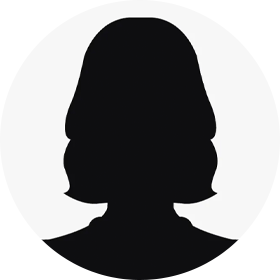
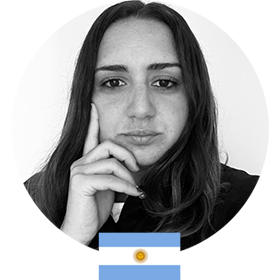
Agregamos a Jessi

diff --git a/public/index.html b/public/index.html
@@ -1,4 +1,4 @@
-<html lang="es"><head><meta charset="UTF-8"/><meta http-equiv="X-UA-Compatible" content="IE=edge"/><meta name="viewport" content="width=device-width, initial-scale=1.0"/><meta http-equiv="cache-control" content="no-cache"/><meta http-equiv="expires" content="0"/><meta http-equiv="pragma" content="no-cache"/><link rel="stylesheet" href="css/styles-min.css?t=1655481165754"/><script src="https://kit.fontawesome.com/1bd7ea1dfd.js" crossorigin="anonymous"></script><meta property="og:title" content="Diplomado Internacional de Marketing Digital"/><meta property="og:type" content="website"/><meta property="og:description" content="El más completo y accesible Diplomado Internacional de Marketing Digital en el mercado online."/><meta property="og:url" content="https://asmedia.edu.mx/dimd/"/><meta property="og:image" content="https://asmedia.edu.mx/dimd/assets/images/og/og-large.png"/><meta property="fb:app_id" content="281613461863716"/><!-- Global site tag (gtag.js) - Google Analytics --><script async="async" src="https://www.googletagmanager.com/gtag/js?id=G-V3V25VKXQM"></script><script>window.dataLayer = window.dataLayer || [];
+<html lang="es"><head><meta charset="UTF-8"/><meta http-equiv="X-UA-Compatible" content="IE=edge"/><meta name="viewport" content="width=device-width, initial-scale=1.0"/><meta http-equiv="cache-control" content="no-cache"/><meta http-equiv="expires" content="0"/><meta http-equiv="pragma" content="no-cache"/><link rel="stylesheet" href="css/styles-min.css?t=1656362203354"/><script src="https://kit.fontawesome.com/1bd7ea1dfd.js" crossorigin="anonymous"></script><meta property="og:title" content="Diplomado Internacional de Marketing Digital"/><meta property="og:type" content="website"/><meta property="og:description" content="El más completo y accesible Diplomado Internacional de Marketing Digital en el mercado online."/><meta property="og:url" content="https://asmedia.edu.mx/dimd/"/><meta property="og:image" content="https://asmedia.edu.mx/dimd/assets/images/og/og-large.png"/><meta property="fb:app_id" content="281613461863716"/><!-- Global site tag (gtag.js) - Google Analytics --><script async="async" src="https://www.googletagmanager.com/gtag/js?id=G-V3V25VKXQM"></script><script>window.dataLayer = window.dataLayer || [];
 function gtag(){dataLayer.push(arguments);}
 gtag('js', new Date());
 gtag('config', 'G-V3V25VKXQM');</script><!-- Meta Pixel Code --><script>!function(f,b,e,v,n,t,s)
@@ -11,4 +11,4 @@ s.parentNode.insertBefore(t,s)}(window, document,'script',
 'https://connect.facebook.net/en_US/fbevents.js');
 fbq('init', '1176452906537729');
 fbq('track', 'PageView');
-</script><noscript><img height="1" width="1" style="display:none" src="https://www.facebook.com/tr?id=1176452906537729&amp;ev=PageView&amp;noscript=1"/></noscript><!-- End Meta Pixel Code --><title>DIMD • Diplomado Internacional de Marketing Digital</title></head><body><header><div class="container"><div class="header-item"><img class="header-logo" src="assets/images/logos/logo-dimd-v.png" alt="Logotipo Diplomado Internacional de Marketing Digital"/></div><div class="header-item"><ul class="header-list"><li class="header-list-item"><i class="list-icon fas fa-video"></i><p class="list-text"><span class="green">Modalidad: </span><span>Online - Hora México</span><br/><small class="red"></small></p></li><li class="header-list-item"><i class="list-icon far fa-play-circle"></i><p class="list-text"><span class="green">Inicio: </span><span>15 de julio</span><br/><small class="red"></small></p></li><li class="header-list-item"><i class="list-icon far fa-stop-circle"></i><p class="list-text"><span class="green">Fin: </span><span>19 de noviembre</span><br/><small class="red"></small></p></li><li class="header-list-item"><i class="list-icon fas fa-dollar-sign"></i><p class="list-text"><span class="green">Costo: </span><span>$17,000.00 MXN (IVA incluido)</span><br/><small class="red">Pregunta por nuestras promociones.</small></p></li><li class="header-list-item"><i class="list-icon far fa-calendar"></i><p class="list-text"><span class="green">Días: </span><span>Viernes de 16:00 a 20:00 hrs y Sábados de 9:00 a 13:00 hrs.</span><br/><small class="red"></small></p></li></ul></div></div></header><main><div class="container" id="main"><h2 class="headline-about">Acerca del Diplomado</h2><div class="main-container"><div class="main-about"><p>Los constantes cambios en la economía, los mercados y la tecnología así como los avances y tendencias en los medios y plataformas digitales exigen mantenerse actualizados y capacitados para la supervivencia de las marcas, empresas y organizaciones.</p><p>Aprende y/o actualiza tus conocimientos en Marketing Digital junto a los más destacados profesionales de la industria en este Diplomado que, sin duda, es el mejor, más completo y accesible programa on-line en el mercado:</p></div></div><div class="main-highlights"><ul><li><p><i class="fas fa-award"></i></p><p class="highlight-text">160 horas de capacitación teórica y práctica.</p></li><li><p><i class="far fa-check-circle"></i></p><p>Contenidos actuales y de vanguardia.</p></li><li><p><i class="fas fa-user-check"></i></p><p>Instructores nacionales e internacionales altamente reconocidos por su trayectoria.</p></li><li><p><i class="far fa-smile"></i></p><p>Desarrollo de un proyecto transversal a lo largo del programa para poner en práctica lo aprendido.</p></li><li><p><i class="fas fa-money-bill-wave-alt"></i></p><p>La mejor inversión en relación costo - beneficio que existe actualmente en el mercado.</p></li></ul></div><div class="main-container"><div class="main-about"><p>No dejes pasar esta gran oportunidad que As Media Centro de Formación Profesional y Hatch Experiential Marketing Agency ponen a tu alcance y desarrolla, de la mano de los expertos, el Plan de Marketing Digital que necesitas para potenciar tu marca y lograr los objetivos de negocio que siempre has deseado.</p></div></div></div><div class="modules"><div class="container"><h2>Programa</h2><div class="modules-grid"><div class="modules-items"><div class="modules-front"><div class="modules-image"><img src="assets/images/modules/mundo.png" alt="Imagen Introducción al mundo digital"/></div><div class="modules-info"><p>Módulo 1</p><h3 class="color-red">Introducción al mundo digital</h3></div></div><div class="modules-back bgc-red"></div></div><div class="modules-items"><div class="modules-front"><div class="modules-image"><img src="assets/images/modules/marketing.png" alt="Imagen Plan de Marketing Digital"/></div><div class="modules-info"><p>Módulo 2</p><h3 class="color-red">Plan de Marketing Digital</h3></div></div><div class="modules-back bgc-red"></div></div><div class="modules-items"><div class="modules-front"><div class="modules-image"><img src="assets/images/modules/branding.png" alt="Imagen Branding &amp; Positioning"/></div><div class="modules-info"><p>Módulo 3</p><h3 class="color-yellow">Branding &amp; Positioning</h3></div></div><div class="modules-back bgc-yellow"></div></div><div class="modules-items"><div class="modules-front"><div class="modules-image"><img src="assets/images/modules/web.png" alt="Imagen Sitios web"/></div><div class="modules-info"><p>Módulo 4</p><h3 class="color-yellow">Sitios web</h3></div></div><div class="modules-back bgc-yellow"></div></div><div class="modules-items"><div class="modules-front"><div class="modules-image"><img src="assets/images/modules/ecommerce.png" alt="Imagen Ecommerce"/></div><div class="modules-info"><p>Módulo 5</p><h3 class="color-blue">Ecommerce</h3></div></div><div class="modules-back bgc-blue"></div></div><div class="modules-items"><div class="modules-front"><div class="modules-image"><img src="assets/images/modules/social.png" alt="Imagen Social Media"/></div><div class="modules-info"><p>Módulo 6</p><h3 class="color-blue">Social Media</h3></div></div><div class="modules-back bgc-blue"></div></div><div class="modules-items"><div class="modules-front"><div class="modules-image"><img src="assets/images/modules/media.png" alt="Imagen Influencer Marketing"/></div><div class="modules-info"><p>Módulo 7</p><h3 class="color-pink">Influencer Marketing</h3></div></div><div class="modules-back bgc-pink"></div></div><div class="modules-items"><div class="modules-front"><div class="modules-image"><img src="assets/images/modules/email.png" alt="Imagen Email Marketing"/></div><div class="modules-info"><p>Módulo 8</p><h3 class="color-pink">Email Marketing</h3></div></div><div class="modules-back bgc-pink"></div></div><div class="modules-items"><div class="modules-front"><div class="modules-image"><img src="assets/images/modules/content.png" alt="Imagen Content marketing"/></div><div class="modules-info"><p>Módulo 9</p><h3 class="color-pink">Content marketing</h3></div></div><div class="modules-back bgc-pink"></div></div><div class="modules-items"><div class="modules-front"><div class="modules-image"><img src="assets/images/modules/buscadores.png" alt="Imagen Marketing en buscadores"/></div><div class="modules-info"><p>Módulo 10</p><h3 class="color-pink">Marketing en buscadores</h3></div></div><div class="modules-back bgc-pink"></div></div><div class="modules-items"><div class="modules-front"><div class="modules-image"><img src="assets/images/modules/publicidad.png" alt="Imagen Publicidad Digital"/></div><div class="modules-info"><p>Módulo 11</p><h3 class="color-pink">Publicidad Digital</h3></div></div><div class="modules-back bgc-pink"></div></div><div class="modules-items"><div class="modules-front"><div class="modules-image"><img src="assets/images/modules/regulacion.png" alt="Imagen Regulación digital"/></div><div class="modules-info"><p>Módulo 12</p><h3 class="color-pink">Regulación digital</h3></div></div><div class="modules-back bgc-pink"></div></div><div class="modules-items"><div class="modules-front"><div class="modules-image"><img src="assets/images/modules/automation.png" alt="Imagen Marketing automation"/></div><div class="modules-info"><p>Módulo 13</p><h3 class="color-pink">Marketing automation</h3></div></div><div class="modules-back bgc-pink"></div></div><div class="modules-items"><div class="modules-front"><div class="modules-image"><img src="assets/images/modules/tendencias.png" alt="Imagen Tendencias del marketing digital"/></div><div class="modules-info"><p>Módulo 14</p><h3 class="color-pink">Tendencias del marketing digital</h3></div></div><div class="modules-back bgc-pink"></div></div><div class="modules-items"><div class="modules-front"><div class="modules-image"><img src="assets/images/modules/plan.png" alt="Imagen Plan de acción"/></div><div class="modules-info"><p>Módulo 15</p><h3 class="color-pink">Plan de acción</h3></div></div><div class="modules-back bgc-pink"></div></div></div></div></div><div class="teachers"><div class="container"><h2>Instructores</h2><div class="teachers-grid"><div class="teachers-items"><div class="teachers-front bgc-yellow"><div class="teachers-image"><img src="assets/images/teachers/liliana.png" alt="Fotografía Liliana Bretón"/></div><div class="teachers-info"><h3>Liliana Bretón</h3><a href="https://www.linkedin.com/in/liliana-breton-0952a1b/" target="_blank"><i class="fab fa-linkedin-in"></i></a></div></div></div><div class="teachers-items"><div class="teachers-front bgc-blue"><div class="teachers-image"><img src="assets/images/teachers/edgar.png" alt="Fotografía Edgar Rábago"/></div><div class="teachers-info"><h3>Edgar Rábago</h3><a href="https://www.linkedin.com/in/edgaruriberabago/" target="_blank"><i class="fab fa-linkedin-in"></i></a></div></div></div><div class="teachers-items"><div class="teachers-front bgc-pink"><div class="teachers-image"><img src="assets/images/teachers/enrique.png" alt="Fotografía Enrique Rojas"/></div><div class="teachers-info"><h3>Enrique Rojas</h3><a href="https://www.linkedin.com/in/enrique-daniel-rojas-rojas-3415781b/" target="_blank"><i class="fab fa-linkedin-in"></i></a></div></div></div><div class="teachers-items"><div class="teachers-front bgc-red"><div class="teachers-image"><img src="assets/images/teachers/juan.png" alt="Fotografía Juan Carlos Tavera"/></div><div class="teachers-info"><h3>Juan Carlos Tavera</h3><a href="https://www.linkedin.com/in/jctaveram/" target="_blank"><i class="fab fa-linkedin-in"></i></a></div></div></div><div class="teachers-items"><div class="teachers-front bgc-pink"><div class="teachers-image"><img src="assets/images/teachers/hans.png" alt="Fotografía Hans Hatch"/></div><div class="teachers-info"><h3>Hans Hatch</h3><a href="https://www.linkedin.com/in/hanshatch" target="_blank"><i class="fab fa-linkedin-in"></i></a></div></div></div><div class="teachers-items"><div class="teachers-front bgc-red"><div class="teachers-image"><img src="assets/images/teachers/felix.png" alt="Fotografía Felix Ríos"/></div><div class="teachers-info"><h3>Felix Ríos</h3><a href="https://www.linkedin.com/in/felixriosc/" target="_blank"><i class="fab fa-linkedin-in"></i></a></div></div></div><div class="teachers-items"><div class="teachers-front bgc-yellow"><div class="teachers-image"><img src="assets/images/teachers/jack.png" alt="Fotografía Jack Ades"/></div><div class="teachers-info"><h3>Jack Ades</h3><a href="https://www.linkedin.com/in/jackades" target="_blank"><i class="fab fa-linkedin-in"></i></a></div></div></div><div class="teachers-items"><div class="teachers-front bgc-blue"><div class="teachers-image"><img src="assets/images/teachers/ennio.png" alt="Fotografía Ennio Castillo"/></div><div class="teachers-info"><h3>Ennio Castillo</h3><a href="https://www.linkedin.com/in/castilloennio/" target="_blank"><i class="fab fa-linkedin-in"></i></a></div></div></div><div class="teachers-items"><div class="teachers-front bgc-blue"><div class="teachers-image"><img src="assets/images/teachers/gianella.png" alt="Fotografía Gianella Carvajal"/></div><div class="teachers-info"><h3>Gianella Carvajal</h3><a href="https://www.linkedin.com/in/gianella-carvajal-ba40b235" target="_blank"><i class="fab fa-linkedin-in"></i></a></div></div></div><div class="teachers-items"><div class="teachers-front bgc-blue"><div class="teachers-image"><img src="assets/images/teachers/leon.png" alt="Fotografía León Felipe Sánchez "/></div><div class="teachers-info"><h3>León Felipe Sánchez </h3><a href="https://www.linkedin.com/in/leonfelipe/" target="_blank"><i class="fab fa-linkedin-in"></i></a></div></div></div></div></div></div><div class="divider"><div class="container"><p>Para más detalles de los módulos y profesores visita nuestra documentación.</p><a href="downloads/documentacion-dimd-op.pdf" target="_blank">Saber Más</a></div></div><div class="promos"><div class="container"><h2>Promoción</h2><div class="promo-container"><div class="promo-item"><h5>25% de Descuento</h5><p>Costo final: $12,750.00 - iva incluido</p><p class="big">3 Parcialidades</p><p>Opciones de pago</p><ul> <li><i class="far fa-check-circle"></i><p>Depósito</p></li><li><i class="far fa-check-circle"></i><p>Efectivo</p></li><li><i class="far fa-check-circle"></i><p>Transferencia</p></li></ul><p class="big">3 meses sin intereses</p><img src="assets/images/logos/tarjetas.png" alt="Imagen de Tarjetas"/></div></div></div></div><div class="form"><div class="container"><h2>Registro </h2><script charset="utf-8" type="text/javascript" src="//js.hsforms.net/forms/v2.js"></script><script type="text/javascript">hbspt.forms.create({region: "na1", portalId: "19503569", formId: "552d3bdd-800e-482a-af35-dbaa9ab63c45"});</script></div></div><div class="contact"><div class="whatsapp"><a href="https://wa.me/message/TYH3IWMQ237JL1" target="_blank"> <img src="assets/images/logos/whatsapp.webp" alt="Logo de WhatsApp"/></a></div></div></main><footer><div class="container"><div class="diplomado"><img src="assets/images/logos/logo-dimd-v.png" alt="Logo Diplomado"/></div><div class="info"><ul><li><i class="fa fa-mobile-alt"></i><a href="https://api.whatsapp.com/message/TYH3IWMQ237JL1" target="_blank">222 263 7514</a></li><li><i class="fa fa-home"></i><a href="http://asmedia.edu.mx" target="_blank">www.asmedia.edu.mx</a></li><li><i class="fa fa-map-marker"></i><a href="https://g.page/asmedia?share" target="_blank">Av. Juárez #1511, Col. La Paz. Puebla, Mexico</a></li><li><i class="fas fa-lock"></i><a href="https://asmedia.edu.mx/imagen360/aviso-privacidad.pdf" target="_blank" rel="noopener noreferrer">Aviso de Privacidad</a></li></ul></div><div class="asmedia"><div> <img src="assets/images/logos/logo-asmedia.png" alt="Logo AsMedia"/></div><div class="continua"><i class="fas fa-angle-double-right"></i><p>Educación Continua  </p></div><div> <img src="assets/images/logos/logo-hans-hatch.png" alt="Logo Hans Hatch"/></div></div></div></footer></body></html>
+</script><noscript><img height="1" width="1" style="display:none" src="https://www.facebook.com/tr?id=1176452906537729&amp;ev=PageView&amp;noscript=1"/></noscript><!-- End Meta Pixel Code --><title>DIMD • Diplomado Internacional de Marketing Digital</title></head><body><header><div class="container"><div class="header-item"><img class="header-logo" src="assets/images/logos/logo-dimd-v.png" alt="Logotipo Diplomado Internacional de Marketing Digital"/></div><div class="header-item"><ul class="header-list"><li class="header-list-item"><i class="list-icon fas fa-video"></i><p class="list-text"><span class="green">Modalidad: </span><span>Online - Vía Zoom</span><br/><small class="red"></small></p></li><li class="header-list-item"><i class="list-icon far fa-play-circle"></i><p class="list-text"><span class="green">Inicio: </span><span>15 de julio</span><br/><small class="red"></small></p></li><li class="header-list-item"><i class="list-icon far fa-stop-circle"></i><p class="list-text"><span class="green">Fin: </span><span>19 de noviembre</span><br/><small class="red"></small></p></li><li class="header-list-item"><i class="list-icon fas fa-dollar-sign"></i><p class="list-text"><span class="green">Costo: </span><span>$17,000.00 MXN (IVA incluido)</span><br/><small class="red">Pregunta por nuestras promociones.</small></p></li><li class="header-list-item"><i class="list-icon far fa-calendar"></i><p class="list-text"><span class="green">Días: </span><span>Viernes de 16:00 a 20:00 hrs y Sábados de 9:00 a 13:00 hrs. - Hora México</span><br/><small class="red"></small></p></li></ul></div></div></header><main><div class="container" id="main"><h2 class="headline-about">Acerca del Diplomado</h2><div class="main-container"><div class="main-about"><p>Los constantes cambios en la economía, los mercados y la tecnología así como los avances y tendencias en los medios y plataformas digitales exigen mantenerse actualizados y capacitados para la supervivencia de las marcas, empresas y organizaciones.</p><p>Aprende y/o actualiza tus conocimientos en Marketing Digital junto a los más destacados profesionales de la industria en este Diplomado que, sin duda, es el mejor, más completo y accesible programa on-line en el mercado:</p></div></div><div class="main-highlights"><ul><li><p><i class="fas fa-award"></i></p><p class="highlight-text">160 horas de capacitación teórica y práctica.</p></li><li><p><i class="far fa-check-circle"></i></p><p>Contenidos actuales y de vanguardia.</p></li><li><p><i class="fas fa-user-check"></i></p><p>Instructores nacionales e internacionales altamente reconocidos por su trayectoria.</p></li><li><p><i class="far fa-smile"></i></p><p>Desarrollo de un proyecto transversal a lo largo del programa para poner en práctica lo aprendido.</p></li><li><p><i class="fas fa-money-bill-wave-alt"></i></p><p>La mejor inversión en relación costo - beneficio que existe actualmente en el mercado.</p></li></ul></div><div class="main-container"><div class="main-about"><p>No dejes pasar esta gran oportunidad que As Media Centro de Formación Profesional y Hatch Experiential Marketing Agency ponen a tu alcance y desarrolla, de la mano de los expertos, el Plan de Marketing Digital que necesitas para potenciar tu marca y lograr los objetivos de negocio que siempre has deseado.</p></div></div></div><div class="modules"><div class="container"><h2>Programa</h2><div class="modules-grid"><div class="modules-items"><div class="modules-front"><div class="modules-image"><img src="assets/images/modules/mundo.png" alt="Imagen Introducción al mundo digital"/></div><div class="modules-info"><p>Módulo 1</p><h3 class="color-red">Introducción al mundo digital</h3></div></div><div class="modules-back bgc-red"></div></div><div class="modules-items"><div class="modules-front"><div class="modules-image"><img src="assets/images/modules/marketing.png" alt="Imagen Plan de Marketing Digital"/></div><div class="modules-info"><p>Módulo 2</p><h3 class="color-red">Plan de Marketing Digital</h3></div></div><div class="modules-back bgc-red"></div></div><div class="modules-items"><div class="modules-front"><div class="modules-image"><img src="assets/images/modules/branding.png" alt="Imagen Branding &amp; Positioning"/></div><div class="modules-info"><p>Módulo 3</p><h3 class="color-yellow">Branding &amp; Positioning</h3></div></div><div class="modules-back bgc-yellow"></div></div><div class="modules-items"><div class="modules-front"><div class="modules-image"><img src="assets/images/modules/web.png" alt="Imagen Sitios web"/></div><div class="modules-info"><p>Módulo 4</p><h3 class="color-yellow">Sitios web</h3></div></div><div class="modules-back bgc-yellow"></div></div><div class="modules-items"><div class="modules-front"><div class="modules-image"><img src="assets/images/modules/ecommerce.png" alt="Imagen Ecommerce"/></div><div class="modules-info"><p>Módulo 5</p><h3 class="color-blue">Ecommerce</h3></div></div><div class="modules-back bgc-blue"></div></div><div class="modules-items"><div class="modules-front"><div class="modules-image"><img src="assets/images/modules/social.png" alt="Imagen Social Media"/></div><div class="modules-info"><p>Módulo 6</p><h3 class="color-blue">Social Media</h3></div></div><div class="modules-back bgc-blue"></div></div><div class="modules-items"><div class="modules-front"><div class="modules-image"><img src="assets/images/modules/media.png" alt="Imagen Influencer Marketing"/></div><div class="modules-info"><p>Módulo 7</p><h3 class="color-pink">Influencer Marketing</h3></div></div><div class="modules-back bgc-pink"></div></div><div class="modules-items"><div class="modules-front"><div class="modules-image"><img src="assets/images/modules/email.png" alt="Imagen Email Marketing"/></div><div class="modules-info"><p>Módulo 8</p><h3 class="color-pink">Email Marketing</h3></div></div><div class="modules-back bgc-pink"></div></div><div class="modules-items"><div class="modules-front"><div class="modules-image"><img src="assets/images/modules/content.png" alt="Imagen Content marketing"/></div><div class="modules-info"><p>Módulo 9</p><h3 class="color-pink">Content marketing</h3></div></div><div class="modules-back bgc-pink"></div></div><div class="modules-items"><div class="modules-front"><div class="modules-image"><img src="assets/images/modules/buscadores.png" alt="Imagen Marketing en buscadores"/></div><div class="modules-info"><p>Módulo 10</p><h3 class="color-pink">Marketing en buscadores</h3></div></div><div class="modules-back bgc-pink"></div></div><div class="modules-items"><div class="modules-front"><div class="modules-image"><img src="assets/images/modules/publicidad.png" alt="Imagen Publicidad Digital"/></div><div class="modules-info"><p>Módulo 11</p><h3 class="color-pink">Publicidad Digital</h3></div></div><div class="modules-back bgc-pink"></div></div><div class="modules-items"><div class="modules-front"><div class="modules-image"><img src="assets/images/modules/regulacion.png" alt="Imagen Regulación digital"/></div><div class="modules-info"><p>Módulo 12</p><h3 class="color-pink">Regulación digital</h3></div></div><div class="modules-back bgc-pink"></div></div><div class="modules-items"><div class="modules-front"><div class="modules-image"><img src="assets/images/modules/automation.png" alt="Imagen Marketing automation"/></div><div class="modules-info"><p>Módulo 13</p><h3 class="color-pink">Marketing automation</h3></div></div><div class="modules-back bgc-pink"></div></div><div class="modules-items"><div class="modules-front"><div class="modules-image"><img src="assets/images/modules/tendencias.png" alt="Imagen Tendencias del marketing digital"/></div><div class="modules-info"><p>Módulo 14</p><h3 class="color-pink">Tendencias del marketing digital</h3></div></div><div class="modules-back bgc-pink"></div></div><div class="modules-items"><div class="modules-front"><div class="modules-image"><img src="assets/images/modules/plan.png" alt="Imagen Plan de acción"/></div><div class="modules-info"><p>Módulo 15</p><h3 class="color-pink">Plan de acción</h3></div></div><div class="modules-back bgc-pink"></div></div></div></div></div><div class="teachers"><div class="container"><h2>Instructores</h2><div class="teachers-grid"><div class="teachers-items"><div class="teachers-front bgc-yellow"><div class="teachers-image"><img src="assets/images/teachers/liliana.png" alt="Fotografía Liliana Bretón"/></div><div class="teachers-info"><h3>Liliana Bretón</h3><a href="https://www.linkedin.com/in/liliana-breton-0952a1b/" target="_blank"><i class="fab fa-linkedin-in"></i></a></div></div></div><div class="teachers-items"><div class="teachers-front bgc-blue"><div class="teachers-image"><img src="assets/images/teachers/edgar.png" alt="Fotografía Edgar Rábago"/></div><div class="teachers-info"><h3>Edgar Rábago</h3><a href="https://www.linkedin.com/in/edgaruriberabago/" target="_blank"><i class="fab fa-linkedin-in"></i></a></div></div></div><div class="teachers-items"><div class="teachers-front bgc-pink"><div class="teachers-image"><img src="assets/images/teachers/enrique.png" alt="Fotografía Enrique Rojas"/></div><div class="teachers-info"><h3>Enrique Rojas</h3><a href="https://www.linkedin.com/in/enrique-daniel-rojas-rojas-3415781b/" target="_blank"><i class="fab fa-linkedin-in"></i></a></div></div></div><div class="teachers-items"><div class="teachers-front bgc-red"><div class="teachers-image"><img src="assets/images/teachers/juan.png" alt="Fotografía Juan Carlos Tavera"/></div><div class="teachers-info"><h3>Juan Carlos Tavera</h3><a href="https://www.linkedin.com/in/jctaveram/" target="_blank"><i class="fab fa-linkedin-in"></i></a></div></div></div><div class="teachers-items"><div class="teachers-front bgc-pink"><div class="teachers-image"><img src="assets/images/teachers/hans.png" alt="Fotografía Hans Hatch"/></div><div class="teachers-info"><h3>Hans Hatch</h3><a href="https://www.linkedin.com/in/hanshatch" target="_blank"><i class="fab fa-linkedin-in"></i></a></div></div></div><div class="teachers-items"><div class="teachers-front bgc-red"><div class="teachers-image"><img src="assets/images/teachers/felix.png" alt="Fotografía Felix Ríos"/></div><div class="teachers-info"><h3>Felix Ríos</h3><a href="https://www.linkedin.com/in/felixriosc/" target="_blank"><i class="fab fa-linkedin-in"></i></a></div></div></div><div class="teachers-items"><div class="teachers-front bgc-yellow"><div class="teachers-image"><img src="assets/images/teachers/jack.png" alt="Fotografía Jack Ades"/></div><div class="teachers-info"><h3>Jack Ades</h3><a href="https://www.linkedin.com/in/jackades" target="_blank"><i class="fab fa-linkedin-in"></i></a></div></div></div><div class="teachers-items"><div class="teachers-front bgc-blue"><div class="teachers-image"><img src="assets/images/teachers/ennio.png" alt="Fotografía Ennio Castillo"/></div><div class="teachers-info"><h3>Ennio Castillo</h3><a href="https://www.linkedin.com/in/castilloennio/" target="_blank"><i class="fab fa-linkedin-in"></i></a></div></div></div><div class="teachers-items"><div class="teachers-front bgc-blue"><div class="teachers-image"><img src="assets/images/teachers/gianella.png" alt="Fotografía Gianella Carvajal"/></div><div class="teachers-info"><h3>Gianella Carvajal</h3><a href="https://www.linkedin.com/in/gianella-carvajal-ba40b235" target="_blank"><i class="fab fa-linkedin-in"></i></a></div></div></div><div class="teachers-items"><div class="teachers-front bgc-blue"><div class="teachers-image"><img src="assets/images/teachers/leon.png" alt="Fotografía León Felipe Sánchez"/></div><div class="teachers-info"><h3>León Felipe Sánchez</h3><a href="https://www.linkedin.com/in/leonfelipe/" target="_blank"><i class="fab fa-linkedin-in"></i></a></div></div></div><div class="teachers-items"><div class="teachers-front bgc-blue"><div class="teachers-image"><img src="assets/images/teachers/jessica.png" alt="Fotografía Jessi Jalife"/></div><div class="teachers-info"><h3>Jessi Jalife</h3><a href="https://www.linkedin.com/in/jessica-natalia-jalife-78048020/" target="_blank"><i class="fab fa-linkedin-in"></i></a></div></div></div></div></div></div><div class="divider"><div class="container"><p>Para más detalles de los módulos y profesores visita nuestra documentación.</p><a href="downloads/documentacion-dimd-op.pdf" target="_blank">Saber Más</a></div></div><div class="promos"><div class="container"><h2>Promoción</h2><div class="promo-container"><div class="promo-item"><h5>25% de Descuento</h5><p>Costo final: $12,750.00 - iva incluido</p><p class="big">3 Parcialidades</p><p>Opciones de pago</p><ul> <li><i class="far fa-check-circle"></i><p>Depósito</p></li><li><i class="far fa-check-circle"></i><p>Efectivo</p></li><li><i class="far fa-check-circle"></i><p>Transferencia</p></li></ul><p class="big">3 meses sin intereses</p><img src="assets/images/logos/tarjetas.png" alt="Imagen de Tarjetas"/></div></div></div></div><div class="form"><div class="container"><h2>Registro </h2><script charset="utf-8" type="text/javascript" src="//js.hsforms.net/forms/v2.js"></script><script type="text/javascript">hbspt.forms.create({region: "na1", portalId: "19503569", formId: "552d3bdd-800e-482a-af35-dbaa9ab63c45"});</script></div></div><div class="contact"><div class="whatsapp"><a href="https://wa.me/message/TYH3IWMQ237JL1" target="_blank"> <img src="assets/images/logos/whatsapp.webp" alt="Logo de WhatsApp"/></a></div></div></main><footer><div class="container"><div class="diplomado"><img src="assets/images/logos/logo-dimd-v.png" alt="Logo Diplomado"/></div><div class="info"><ul><li><i class="fa fa-mobile-alt"></i><a href="https://api.whatsapp.com/message/TYH3IWMQ237JL1" target="_blank">222 263 7514</a></li><li><i class="fa fa-home"></i><a href="http://asmedia.edu.mx" target="_blank">www.asmedia.edu.mx</a></li><li><i class="fa fa-map-marker"></i><a href="https://g.page/asmedia?share" target="_blank">Av. Juárez #1511, Col. La Paz. Puebla, Mexico</a></li><li><i class="fas fa-lock"></i><a href="https://asmedia.edu.mx/imagen360/aviso-privacidad.pdf" target="_blank" rel="noopener noreferrer">Aviso de Privacidad</a></li></ul></div><div class="asmedia"><div> <img src="assets/images/logos/logo-asmedia.png" alt="Logo AsMedia"/></div><div class="continua"><i class="fas fa-angle-double-right"></i><p>Educación Continua  </p></div><div> <img src="assets/images/logos/logo-hans-hatch.png" alt="Logo Hans Hatch"/></div></div></div></footer></body></html>
